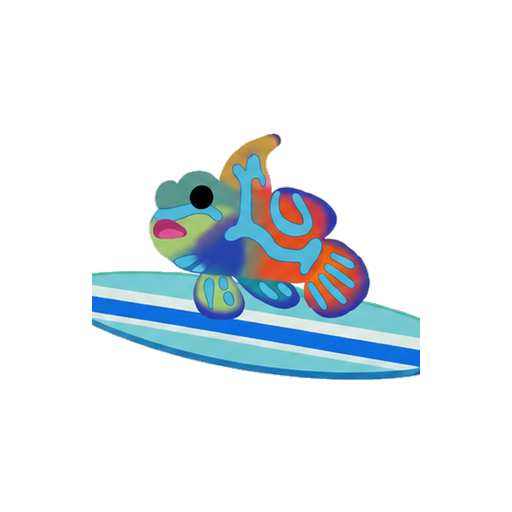
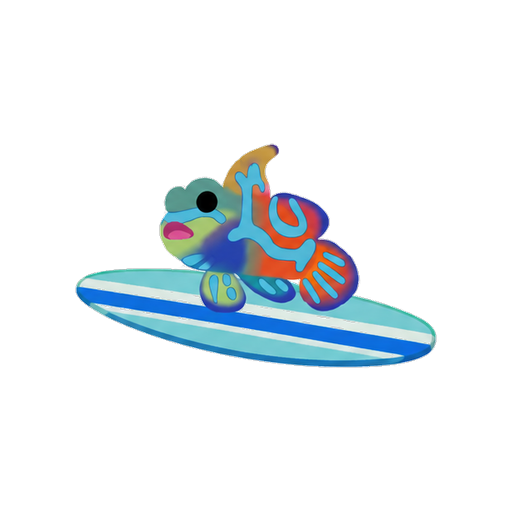
Replace Summer Skin Mandarin Goby art with new source photo, fully unclipped
Swapped in a fresh export of the goby-on-surfboard art, cut out to a clean
transparent 512x512 (color-keyed off its flat background, edges
decontaminated to avoid gray fringing), and scaled/centered so the
farthest board tip sits at 78% of the circular seat frame's radius —
matching the Gull skin's proportions with comfortable margin on all sides.
Bumped _AVATAR_ART_VERSION (ws14→ws15) and build 2026-07-06.4→.5 (version.json,
APP_BUILD, preview.html script query) so live clients fetch the new art
instead of serving the old cached PNG.

Changed region(s): [[0.125, 0.25, 0.875, 0.75]]

diff --git a/multiplayer/client/js/preview-app.js b/multiplayer/client/js/preview-app.js
@@ -17,7 +17,7 @@
   // polls version.json and prompts a one-tap refresh when the served build differs;
   // if these two drift apart, refreshed clients get stuck re-prompting forever.
   const APP_VERSION = "1.6.5";
-  const APP_BUILD   = "2026-07-06.4";
+  const APP_BUILD   = "2026-07-06.5";
 
   // ── Profanity guard (chat + nicknames) ──────────────────────────────────
   // Keeps chat family-friendly and blocks offensive nicknames. Chat swears are
@@ -295,7 +295,7 @@
   // refreshed avatar image (same /avatars/x.png path) is never served stale.
   // Only touches /avatars/ paths — external (Google) avatar URLs are left as-is.
   // Stored/compared paths stay clean; the server ignores the query (basename match).
-  const _AVATAR_ART_VERSION = "ws14";
+  const _AVATAR_ART_VERSION = "ws15";
   function _avSrc(url) {
     const u = String(url || "");
     // Cache-bust both avatar AND background art so a version bump always refreshes

diff --git a/multiplayer/client/preview.html b/multiplayer/client/preview.html
@@ -2632,7 +2632,7 @@
   </div>
 </div>
 
-<script src="/js/preview-app.js?v=2026-07-06.4"></script>
+<script src="/js/preview-app.js?v=2026-07-06.5"></script>
 
 <script src="/js/challenge-of-challenges.js?v=2026-06-29.3"></script>
 
